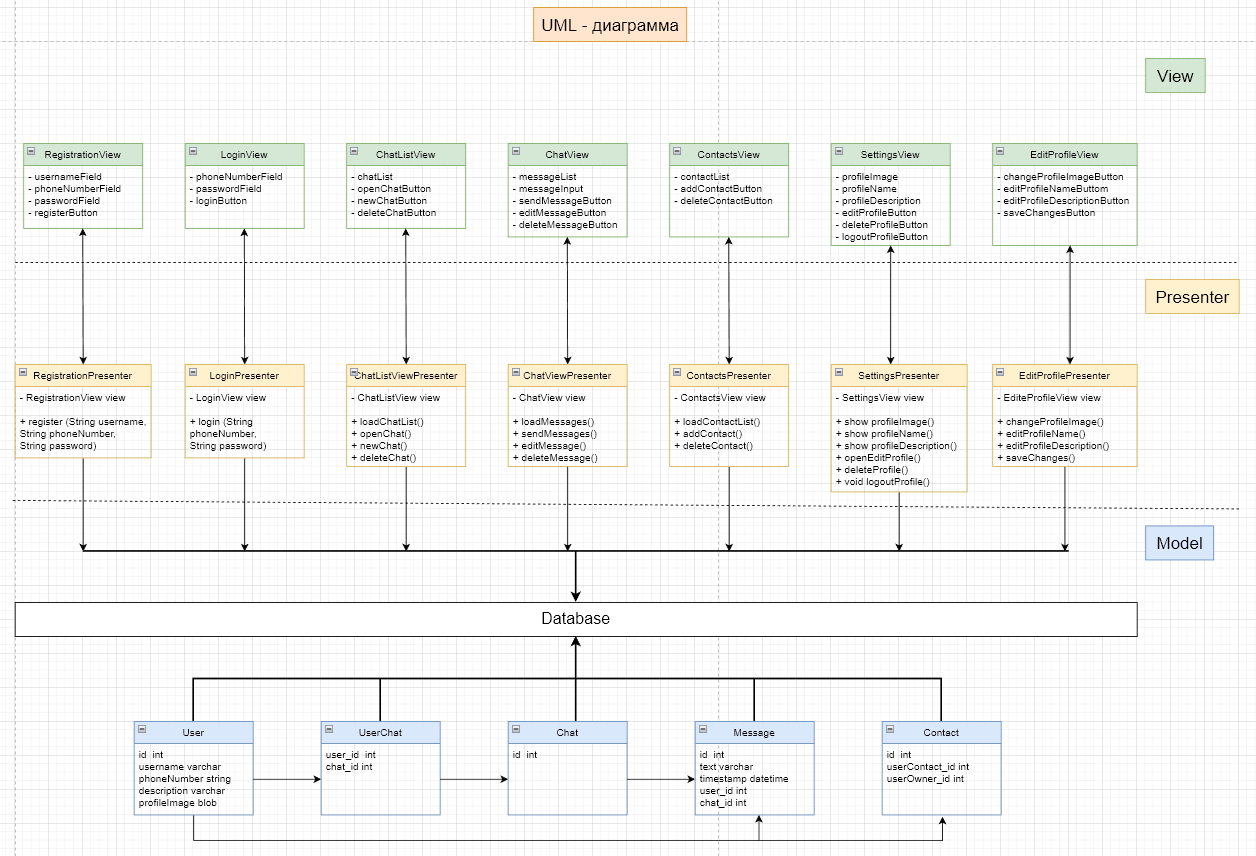
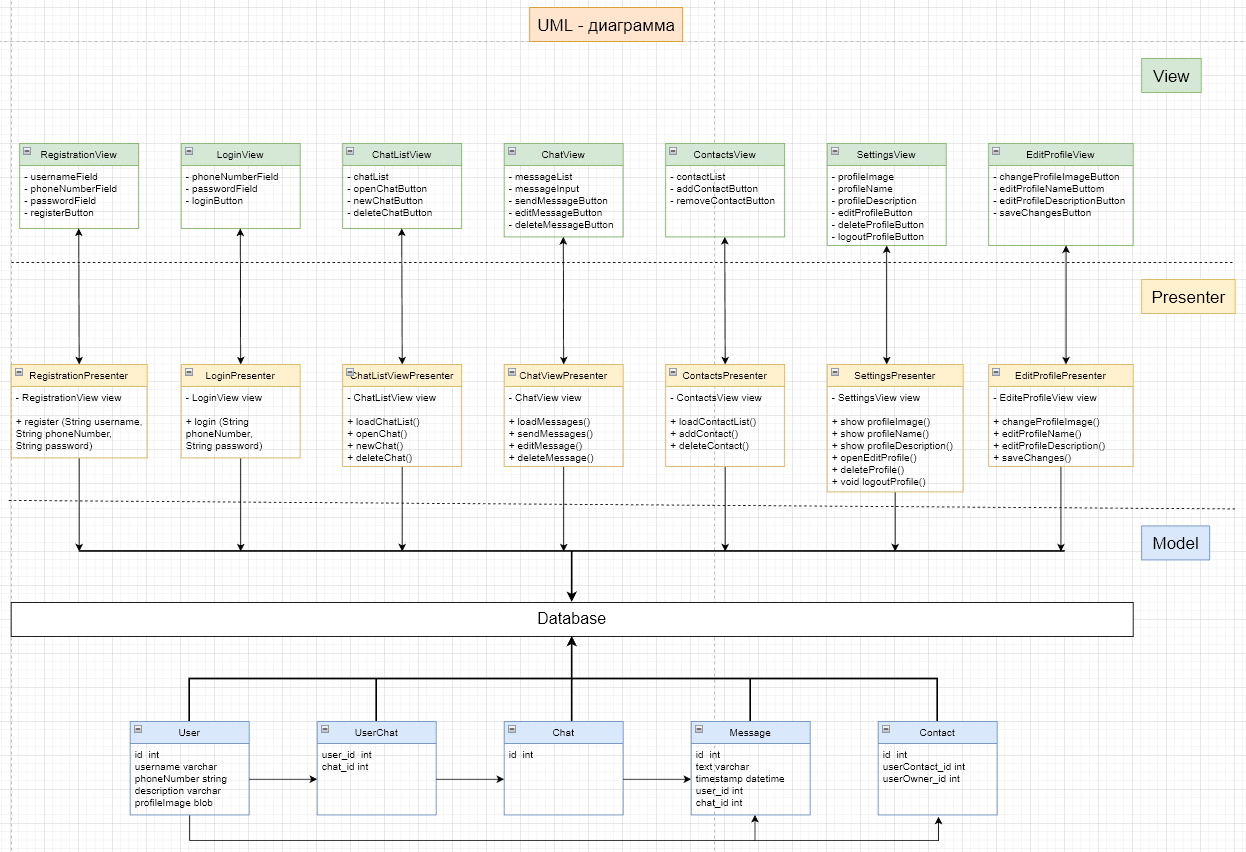
исправили deleteContact на removeContact в UML-диаграмме

diff --git a/Homework10/README.md b/Homework10/README.md
@@ -36,6 +36,8 @@ Presenter отвечает за связь между Model и View, а имен
 Такая архитектура позволяет улучшить тестирование кода, так как каждый компонент можно тестировать независимо от других. Также это позволяет улучшить переносимость кода между различными платформами и устройствами.\
 В целом, архитектура MVP - это популярный (если верить великому Google), удобный и эффективный подход для разработки приложений, особенно в случае мессенджеров, где необходимо обрабатывать большое количество данных и пользовательского ввода.
 
-#### UML-диаграмма для приложения мессенджера ####
+#### 3. UML-диаграмма для приложения мессенджера ####
 
 ![UML-диаграмма](Diagrams/UML_before.png)
+
+#### 4. ER-диаграмма для приложения мессенджера ####
